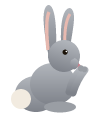
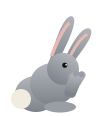
Grove: bow the grooming rabbit's whole head, so the dip actually reads
The first wash pose only rotated the head about its own centre — and a
near-round head barely changes when you spin it, so it didn't read as
dipped at all. Bow the whole head-and-ears unit down and forward around
the neck instead, lowering it over the raised paws: now the ears tip
forward and the nose drops to meet the paws, which reads clearly as a
rabbit washing its face.

Claude-Session: https://claude.ai/code/session_01Lr5BMbhfeBJZpo5hPigpJg

diff --git a/themes/grove/build-assets.js b/themes/grove/build-assets.js
@@ -490,22 +490,22 @@ save('rabbit_ears', rabbitEarsSvg('#c8b49a', '#94795f', '#bda78c'), 104);
 save('rabbit_g_ears', rabbitEarsSvg('#b2b6bc', '#7e828a', '#9a9ea4'), 104);
 save('rabbit_k_ears', rabbitEarsSvg('#5e5a54', '#3a362f', '#4e4a44'), 104);
 
-// the rabbit washing its face — head dipped, both forepaws raised to the muzzle with pale paw-tips,
-// the way a rabbit grooms; a brief swap to this while it sits reads as a wash-down
+// the rabbit washing its face — the whole head and ears bowed down and forward over both raised
+// forepaws, the way a rabbit grooms; a brief swap to this while it sits reads as a wash-down
 const rabbitGroomSvg = (g0, g1, foot) =>
   S(
     '104 116',
     `<defs><linearGradient id="rb" x1="0" y1="0" x2="0" y2="1"><stop offset="0" stop-color="${g0}"/><stop offset="1" stop-color="${g1}"/></linearGradient></defs>
-<path d="M49,58 C43,28 41,8 48,5 C55,4 57,26 56,54 Z" fill="url(#rb)"/><path d="M62,56 C59,28 62,8 70,8 C78,11 72,32 69,54 Z" fill="url(#rb)"/>
-<path d="M48,50 C46,30 46,18 49,12" stroke="#e7b9b0" stroke-width="3.4" fill="none"/><path d="M65,50 C64,32 66,20 70,14" stroke="#e7b9b0" stroke-width="3" fill="none"/>
 <ellipse cx="36" cy="94" rx="21" ry="18" fill="url(#rb)"/><ellipse cx="53" cy="84" rx="23" ry="21" fill="url(#rb)"/>
 <circle cx="21" cy="99" r="10" fill="#f2ebe0"/><ellipse cx="60" cy="107" rx="16" ry="5.5" fill="${foot}"/>
-<g transform="rotate(16 64 56)">
+<g transform="translate(-3 9) rotate(27 57 62)">
+<path d="M49,58 C43,28 41,8 48,5 C55,4 57,26 56,54 Z" fill="url(#rb)"/><path d="M62,56 C59,28 62,8 70,8 C78,11 72,32 69,54 Z" fill="url(#rb)"/>
+<path d="M48,50 C46,30 46,18 49,12" stroke="#e7b9b0" stroke-width="3.4" fill="none"/><path d="M65,50 C64,32 66,20 70,14" stroke="#e7b9b0" stroke-width="3" fill="none"/>
 <circle cx="64" cy="56" r="16" fill="url(#rb)"/><path d="M75,55 C81,56 83,62 78,66 C74,67 71,63 72,58 Z" fill="url(#rb)"/>
 <path d="M80,59 l4.5,2.3 l-4.5,2.3 Z" fill="#c97f8a"/>
 <circle cx="64" cy="52" r="2.6" fill="#1a1208"/><circle cx="65" cy="51" r="0.8" fill="#fff"/></g>
-<g stroke="url(#rb)" stroke-width="7" stroke-linecap="round" fill="none"><path d="M69,92 C71,82 76,74 81,69"/><path d="M73,93 C76,83 81,75 85,70"/></g>
-<circle cx="81" cy="68.5" r="3.1" fill="${foot}"/><circle cx="84.5" cy="69.5" r="2.9" fill="${foot}"/>`
+<g stroke="url(#rb)" stroke-width="7.5" stroke-linecap="round" fill="none"><path d="M68,93 C70,84 73,78 76,74"/><path d="M72,94 C75,85 79,79 82,75"/></g>
+<circle cx="76" cy="73.5" r="3.2" fill="${foot}"/><circle cx="81.5" cy="74.5" r="3" fill="${foot}"/>`
   );
 save('rabbit_groom', rabbitGroomSvg('#c8b49a', '#94795f', '#bda78c'), 104);
 save('rabbit_g_groom', rabbitGroomSvg('#b2b6bc', '#7e828a', '#9a9ea4'), 104);